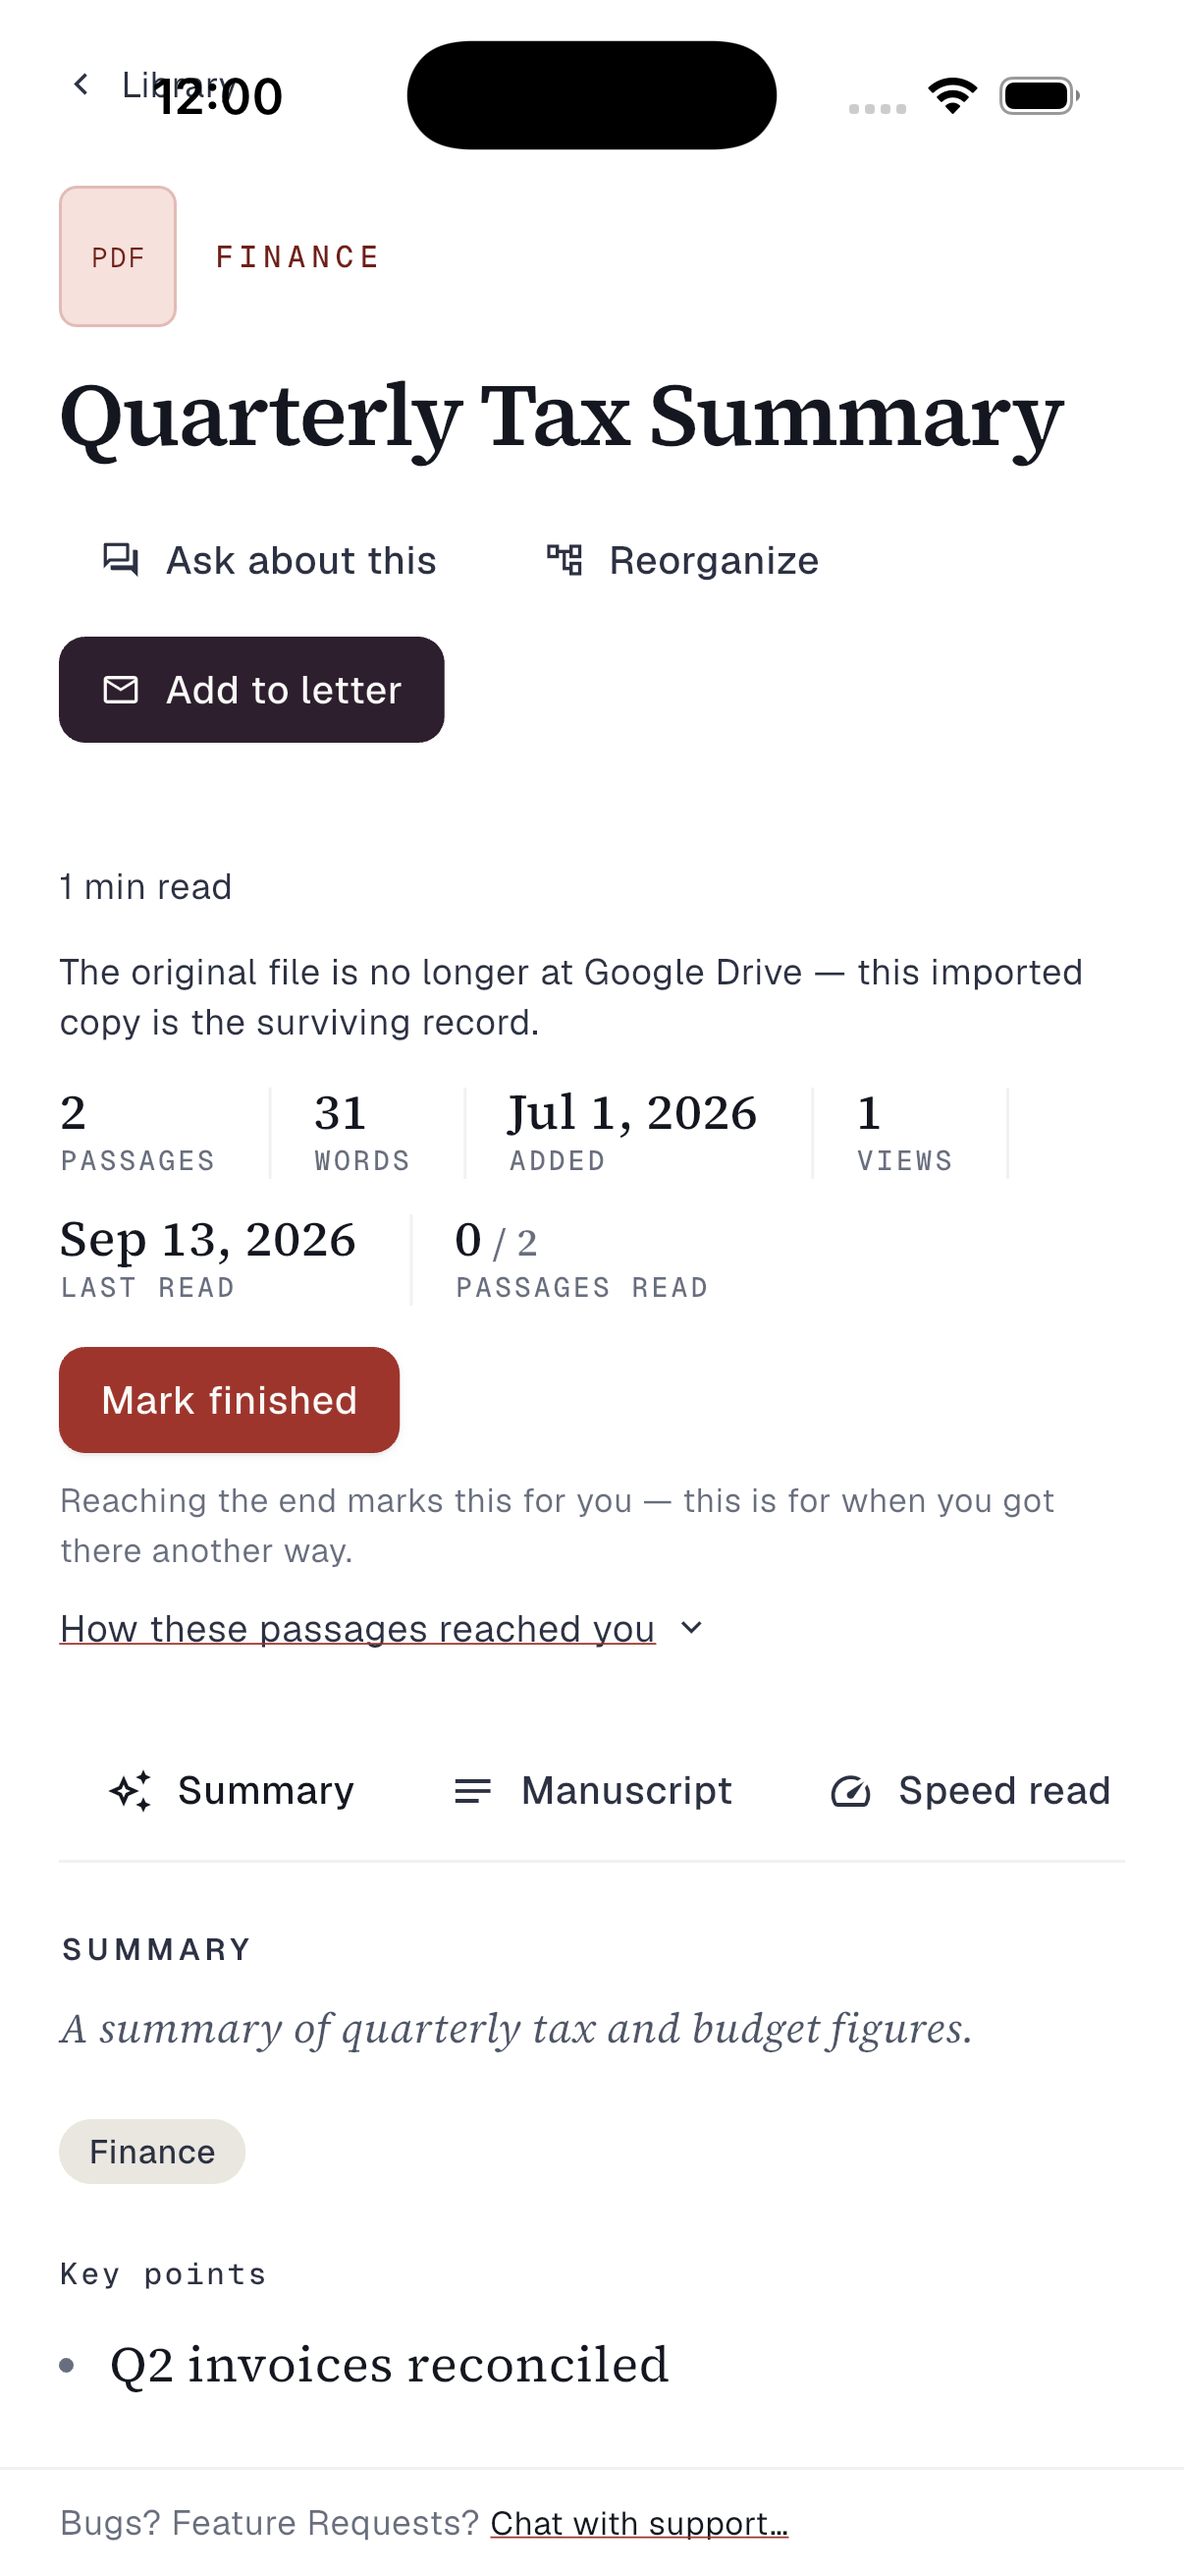
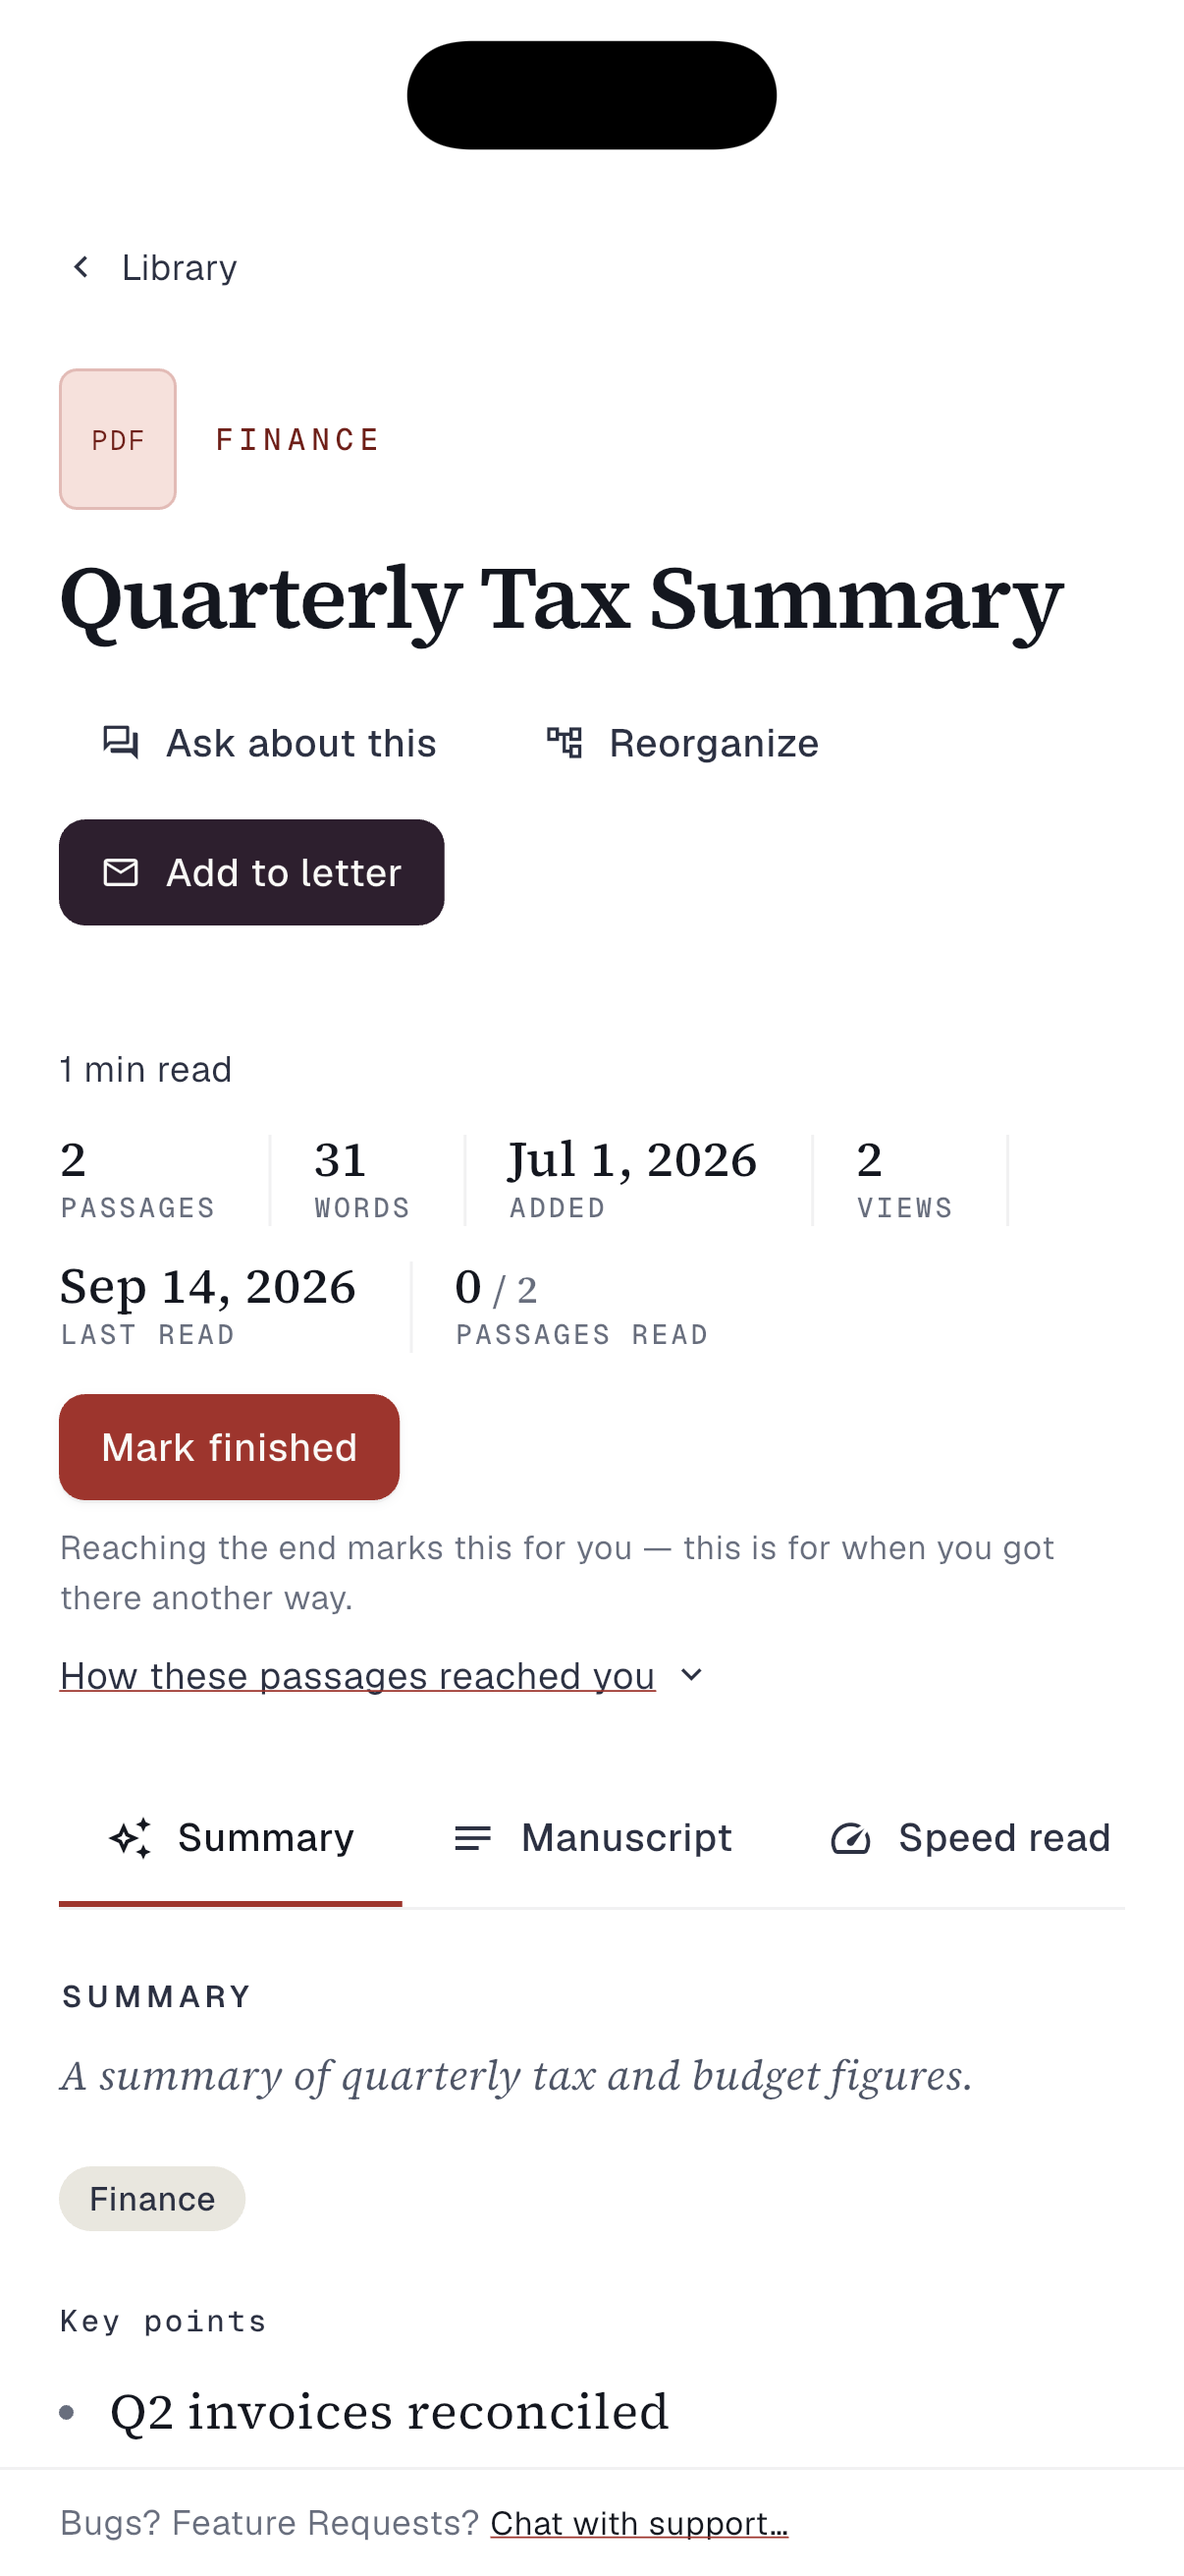
Reader: the §8 row, the byline and the summary, gated (F-09, reader.md §Header §Reading state §Regenerate summary, component-kit §8 §2.1 §5.2 §14.1 §17.1)
The code obligations were already in the tree; what F-09 owed was the last
fold, the gates and the artifacts. The fold: `.proc-note` had two spellings
here — a hand-rolled `copyWith` on the reader, a warning triangle beside sans
meta text in the sync panel — where the reference draws both states as a bare
italic serif sentence with NO glyph. One `KitProcNote` in the kit now, and the
triangle is gone rather than recoloured: a triangle says something failed, and
nothing has. The absent icon is asserted, because an omission nothing checks
comes back.

Folds: 4.46.0 · 4.3.0 · 4.1.0 · 4.52.0 · 4.34.3
Gates: analyze clean · contract+kit 521 passed (pin excluded by policy)
       · activity_vocab · doc_kind · failure_pattern · job_status · upload_set
       · extraction_marker · token_contrast --target flutter all PASS
       · device "the reader renders and the passage mark tracks a REAL drag" green
       · pair reader light+dark refreshed (the checked-in one predated SafeArea
         and showed the back control under the notch)
Pin stays 4.4.0.

Claude-Session: https://claude.ai/code/session_01QkLraLM4RdSuNFNACiKKe6

diff --git a/lib/pages/sources/sync_settings_panel.dart b/lib/pages/sources/sync_settings_panel.dart
@@ -135,10 +135,12 @@ class _SyncSettingsPanelState extends State<SyncSettingsPanel> {
                     // An inert state, said out loud: auto-sync with no folder
                     // scope will never move a file, and silence there looks
                     // exactly like working.
-                    if (inert) _Warning(
-                      'Auto-sync is on but no folders are chosen — nothing '
-                      'will sync until you pick sync folders.',
-                    ),
+                    if (inert)
+                      const KitProcNote(
+                        'Auto-sync is on but no folders are chosen — nothing '
+                        'will sync until you pick sync folders.',
+                        padding: EdgeInsets.only(top: 6),
+                      ),
 
                     _Label('Frequency'),
                     KitSegmented(
@@ -253,31 +255,6 @@ class _Label extends StatelessWidget {
         padding: const EdgeInsets.only(top: 16, bottom: 8),
         child: Eyebrow(text),
       );
-}
-
-/// An inert-state warning: the setting is on and will still do nothing.
-class _Warning extends StatelessWidget {
-  final String text;
-  const _Warning(this.text);
-
-  @override
-  Widget build(BuildContext context) {
-    final t = Tokens.of(context);
-    return Padding(
-      padding: const EdgeInsets.only(top: 8),
-      child: Row(
-        crossAxisAlignment: CrossAxisAlignment.start,
-        children: [
-          // ADR-066: a warning drawn from the critical family reads as an
-          // error. This state is auto-sync on with no folders chosen —
-          // nothing has failed, so it draws --warning, not --critical.
-          Icon(Icons.warning_amber_rounded, size: 15, color: t.warning),
-          const SizedBox(width: 8),
-          Expanded(child: Text(text, style: KitText.meta(context))),
-        ],
-      ),
-    );
-  }
 }
 
 /// The preferred-hour picker. 0–23, rendered as a clock hour.

diff --git a/lib/widgets/kit/kit_text.dart b/lib/widgets/kit/kit_text.dart
@@ -141,6 +141,41 @@ class KitText {
       );
 }
 
+/// The **process note** (web `.proc-note`) — an italic serif remark at 13 in
+/// `--fg-subtle`, about a state rather than in the app's own voice: the
+/// imported copy that outlived its original, auto-sync switched on with no
+/// folders chosen.
+///
+/// One spelling, in the kit, because there were two (TODO 2026-09-08 → F-09).
+/// The reference draws both of those states as a bare sentence with **no
+/// glyph**; this client drew the reader's as a hand-rolled `copyWith` and the
+/// sync panel's as a warning triangle beside sans meta text. Neither was wrong
+/// on its own token — which is the 4.5.0 shape exactly: a screen can be
+/// token-perfect and still be a different design (ADR-041).
+///
+/// **No icon is a required part, not an omission.** A triangle says something
+/// failed; nothing has. The sentence is the whole pattern.
+class KitProcNote extends StatelessWidget {
+  final String text;
+
+  /// The reference sets this per site (`6px 0 0` in the sync panel, `10px 0 0`
+  /// on the reader) — placement is the screen's business, the metric is not.
+  final EdgeInsetsGeometry padding;
+
+  const KitProcNote(this.text,
+      {super.key, this.padding = const EdgeInsets.only(top: 8)});
+
+  @override
+  Widget build(BuildContext context) => Padding(
+        padding: padding,
+        child: Text(
+          text,
+          style: KitText.lede(context, fontSize: 13, height: 20)
+              .copyWith(color: Tokens.of(context).fgSubtle),
+        ),
+      );
+}
+
 /// An eyebrow, as a widget. Sections take this rather than styling a [Text]
 /// themselves.
 class Eyebrow extends StatelessWidget {

diff --git a/lib/pages/reader/source_freshness.dart b/lib/pages/reader/source_freshness.dart
@@ -84,16 +84,13 @@ class _SourceFreshnessState extends State<SourceFreshness> {
     final provider = _providerName[f['provider']] ?? '${f['provider']}';
 
     if (f['missing_at_provider'] == true) {
-      return Padding(
+      // `.proc-note` from the kit — an italic serif remark at `--fg-subtle`,
+      // not UI sans body copy: this is an aside ABOUT the document, in the
+      // same editorial voice the rest of the reader's asides use. It was this
+      // screen's own `copyWith` until F-09 put the one spelling in the kit.
+      return KitProcNote(
+        'The original file is no longer at $provider — this imported copy is the surviving record.',
         padding: const EdgeInsets.only(top: 12),
-        // `.proc-note` is an italic serif remark at `--fg-subtle`, not UI sans
-        // body copy: this is an aside ABOUT the document, in the same editorial
-        // voice the rest of the reader's asides use.
-        child: Text(
-          'The original file is no longer at $provider — this imported copy is the surviving record.',
-          style: KitText.lede(context, fontSize: 13, height: 20)
-              .copyWith(color: ui.subtle),
-        ),
       );
     }
     if (f['newer_at_provider'] != true) return const SizedBox.shrink();

diff --git a/test/kit/kit_smoke_test.dart b/test/kit/kit_smoke_test.dart
@@ -167,6 +167,25 @@ void main() {
       expect(find.text('RECENTLY READ · 12 SOURCES'), findsOneWidget);
     });
 
+    testWidgets('KitProcNote is an italic serif sentence and NOTHING else',
+        (tester) async {
+      await pumpBoth(
+        tester,
+        const KitProcNote(
+          'Auto-sync is on but no folders are chosen.',
+        ),
+      );
+      final text = tester.widget<Text>(
+        find.text('Auto-sync is on but no folders are chosen.').first,
+      );
+      expect(text.style!.fontStyle, FontStyle.italic);
+      expect(text.style!.fontSize, 13);
+      // The absent icon is a REQUIRED part of this pattern: the reference
+      // draws the inert state as a bare sentence, and a triangle beside it
+      // says something failed when nothing has (F-09).
+      expect(find.byType(Icon), findsNothing);
+    });
+
     testWidgets('AccentTitle splits on a single asterisk pair', (tester) async {
       await pumpBoth(
         tester,

diff --git a/QUEUE.md b/QUEUE.md
@@ -167,7 +167,7 @@ a new obligation on a finished screen is a new item.
 
 
 ## F-09 · Reader — header, body, summary
-- status: in-progress
+- status: done 2026-09-14
 - screen: reader
 - route: /reader/seed-doc-pdf-complete
 - spec: spec/screens/reader.md §Composition §Header — byline & reading cost §Reading state & typography §Regenerate summary §States; spec/component-kit.md §8 §5.2 §2.1 §14.1 §17.1
